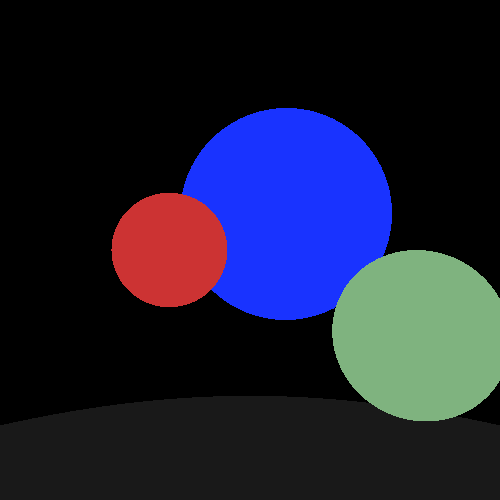
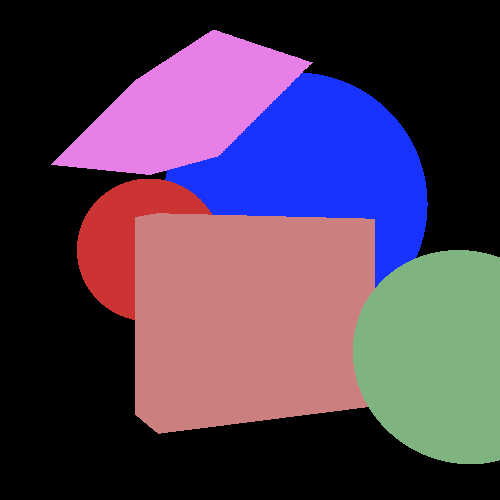
parser done, scene is rendered, NO LIGHTS

diff --git a/Raytracing/Raytracing/src/scene.cpp b/Raytracing/Raytracing/src/scene.cpp
@@ -56,7 +56,7 @@ Scene::Scene(const std::string & filepath, int width, int height, std::string ou
 			std::getline(file, line2);
 			std::string lines[2] = { line,line2 };
 			spheres.push_back(parse_sphere(lines));
-			
+			objects.push_back(new Sphere{ spheres.back() });
 		}
 
 		if (line.find("BOX") != std::string::npos)
@@ -67,8 +67,19 @@ Scene::Scene(const std::string & filepath, int width, int height, std::string ou
 			std::getline(file, line3);
 			std::string lines[3] = { line,line2,line3 };
 			boxes.push_back(parse_box(lines));
-
+			objects.push_back(new Box{ boxes.back() });
 			
+		}
+
+		if (line.find("LIGHT") != std::string::npos)
+		{
+			lights.push_back(parse_light(&line));
+		}
+
+		if (line.find("AMBIENT") != std::string::npos)
+		{
+			std::string text_ambient = line.substr(line.find('(') + 1, line.find(')') - line.find('(') - 1);
+			global_ambient = extract_vec3(text_ambient);
 		}
 
 		if (line.find("CAMERA") != std::string::npos)
@@ -116,9 +127,9 @@ void Scene::Intersect(const Ray & ray)
 
 	float d_max = FLT_MAX - 1.f;
 	int index = -1;
-	for (int i = 0; i < spheres.size(); i++)
+	for (int i = 0; i < objects.size(); i++)
 	{
-		float d = intersection_ray_sphere(ray, spheres[i]);
+		float d = objects[i]->intersection(ray);
 
 		if (d >= 0.f && d <= d_max)
 		{
@@ -128,10 +139,17 @@ void Scene::Intersect(const Ray & ray)
 
 	}
 
+
 	if (index == -1)
 		intersection_data.push_back(vec3{ 0,0,0 });
 	else
-		intersection_data.push_back(spheres[index].mat.diffuse_color);
+	{
+		Material material = objects[index]->mat;
+
+
+
+		//intersection_data.push_back();
+	}
 
 	
 }
@@ -200,14 +218,42 @@ Box parse_box(const std::string * lines)
 	std::string text_center = lines[0].substr(lines[0].find('(') + 1, lines[0].find(')') - lines[0].find('(') - 1);
 	
 	std::string text_vectors = lines[1];
-	std::string text_length = text_vectors.substr(text_vectors.find_first_of('('), text_vectors.find_first_of(')') - text_vectors.find_first_of('('));
-	text_vectors = text_vectors.substr(text_vectors.find_first_of(')') + 1);
-	std::string text_width = text_vectors.substr(text_vectors.find_first_of('('), text_vectors.find_first_of(')') - text_vectors.find_first_of('('));
-	text_vectors = text_vectors.substr(text_vectors.find_first_of(')') + 1);
-	std::string text_height = text_vectors.substr(text_vectors.find_first_of('('), text_vectors.find_first_of(')') - text_vectors.find_first_of('('));
+	std::string text_length = text_vectors.substr(text_vectors.find_first_of('(') + 1, text_vectors.find_first_of(')') - 1);
+	text_vectors = text_vectors.substr(text_vectors.find_first_of(' ') + 1);
+	std::string text_width = text_vectors.substr(text_vectors.find_first_of('(') + 1, text_vectors.find_first_of(')') - 1);
+	text_vectors = text_vectors.substr(text_vectors.find_first_of(' ') + 1);
+	std::string text_height = text_vectors.substr(text_vectors.find_first_of('(') + 1, text_vectors.find_first_of(')') - 1);
 
 	std::string text_material = lines[2];
+	std::string text_diffuse = text_material.substr(text_material.find_first_of('(') + 1, text_material.find_first_of(')') - 1);
+	text_material = text_material.substr(text_material.find_first_of(')') + 2);
+	std::string text_refle = text_material.substr(0, text_material.find_first_of(' ') );
+	text_material = text_material.substr(text_material.find_first_of(' '));
+	std::string text_exp = text_material;
 
+	vec3 center = extract_vec3(text_center);
+	vec3 length = extract_vec3(text_length);
+	vec3 width = extract_vec3(text_width);
+	vec3 height = extract_vec3(text_height);
+	vec3 diffuse = extract_vec3(text_diffuse);
+	float refle = std::stof(text_refle);
+	float exp = std::stof(text_exp);
 
-	return Box();
+	return Box(center, width,height,length,diffuse,refle,exp);
+}
+
+Light parse_light(const std::string * lines)
+{
+	std::string text_components = lines[0];
+	std::string text_position = text_components.substr(text_components.find_first_of('(') + 1, text_components.find_first_of(')') - text_components.find_first_of('(') - 1);
+	text_components = text_components.substr(text_components.find_first_of(')') + 1);
+	std::string text_color = text_components.substr(text_components.find_first_of('(') + 1, text_components.find_first_of(')') - text_components.find_first_of('(') - 1);
+	text_components = text_components.substr(text_components.find_first_of(')') + 1);
+	std::string text_radius = text_components;
+
+	vec3 position = extract_vec3(text_position);
+	vec3 color = extract_vec3(text_color);
+	float radius = std::stof(text_radius);
+
+	return Light(position,color,radius);
 }

diff --git a/Raytracing/Raytracing/src/shapes.h b/Raytracing/Raytracing/src/shapes.h
@@ -18,7 +18,7 @@ struct Material
 	float specular_exponent;
 
 	Material() = default;
-	Material(const vec3& diffuse,const float & spec_ref, const float & spec_exp);
+	Material(const vec3& diffuse, const float & spec_ref, const float & spec_exp);
 
 };
 
@@ -30,19 +30,30 @@ struct Ray
 	Ray() = default;
 	Ray(const vec3& start, const vec3& dir);
 
+
 };
 
-struct Sphere {
+struct Base
+{
+	Material mat;
+	virtual float intersection(const Ray & ray) { return -1.0f; };
+};
+
+
+struct Sphere : public Base
+{
 	vec3	center;
 	float	radius;
-	Material mat;
+	//Material mat;
 
 	Sphere() = default;
 	Sphere(const vec3& center, const float & radius, const vec3& diffuse, 
 		const float & spec_ref, const float & spec_exp);
+	float intersection(const Ray & ray);
 };
 
-struct Plane {
+struct Plane 
+{
 	vec3 point;
 	vec3 normal;
 
@@ -50,17 +61,28 @@ struct Plane {
 	Plane(const vec3& point, const vec3& normal);
 };
 
-struct Box {
+struct Box : public Base
+{
 	vec3 position;
 	vec3 width;
 	vec3 height;
 	vec3 length;
 	//Front,Back,Left,Right,Bottom,Top
 	Plane planes[6];
-	Material mat;
+	//Material mat;
 
 	Box() = default;
-	Box(const vec3 & position, const vec3 & weigth, const vec3 & heigth,
+	Box(const vec3 & position, const vec3 & width, const vec3 & heigth,
 		const vec3 & length, const vec3& diffuse, const float & spec_ref,
 		const float & spec_exp);
+	float intersection(const Ray & ray);
+};
+
+struct Light
+{
+	vec3 position;
+	vec3 color;
+	float radius;
+	Light() = default;
+	Light(const vec3 & position, const vec3 & color, const float & radius);
 };

diff --git a/Raytracing/Raytracing/src/shapes.cpp b/Raytracing/Raytracing/src/shapes.cpp
@@ -8,6 +8,7 @@ Creation date: 1/8/2020
 ----------------------------------------------------------------------------------------------------------*/
 
 #include "shapes.h"
+#include "collision.h"
 
 Ray::Ray(const vec3 & start, const vec3 & dir)
 {
@@ -21,6 +22,11 @@ Sphere::Sphere(const vec3 & center, const float & radius, const vec3& diffuse,
 	this->center = center;
 	this->radius = radius;
 	this->mat = Material{diffuse,spec_ref,spec_exp};
+}
+
+float Sphere::intersection(const Ray & ray)
+{
+	return intersection_ray_sphere(ray,*this);
 }
 
 Box::Box(const vec3 & position, const vec3 & length, const vec3 & width,
@@ -59,6 +65,11 @@ Box::Box(const vec3 & position, const vec3 & length, const vec3 & width,
 	planes[5] = Plane{ c6,n6 };
 }
 
+float Box::intersection(const Ray & ray)
+{
+	return intersection_ray_box(ray, *this);
+}
+
 Plane::Plane(const vec3 & point, const vec3 & normal)
 {
 	this->point = point;
@@ -70,4 +81,11 @@ Material::Material(const vec3 & diffuse, const float & spec_ref, const float & s
 	diffuse_color = diffuse;
 	specular_reflection = spec_ref;
 	specular_exponent = spec_exp;
+}
+
+Light::Light(const vec3 & position, const vec3 & color, const float & radius)
+{
+	this->position = position;
+	this->color = color;
+	this->radius = radius;
 }

diff --git a/Raytracing/Raytracing/src/collision.cpp b/Raytracing/Raytracing/src/collision.cpp
@@ -36,5 +36,40 @@ float intersection_ray_sphere(const Ray & ray, const Sphere & sphere)
 
 float intersection_ray_box(const Ray & ray, const Box & box)
 {
-	return 0.0f;
+	vec2 intersection = { 0.0f, FLT_MAX };
+
+	for (int i = 0; i < 6; i++)
+	{
+		vec2 temp_intersection;
+		float d2 = glm::dot(ray.dir, box.planes[i].normal);
+		float d1 = glm::dot(ray.start - box.planes[i].point, box.planes[i].normal);
+		
+		if (d2 < 0.0)
+		{
+			float t = -d1 / d2;
+			temp_intersection = {glm::max(0.0f,t),FLT_MAX};
+		}
+		else if (d2 > 0.0)
+		{
+			float t = -d1 / d2;
+			temp_intersection = {0, glm::max(0.0f,t)};
+		}
+		else if (d1 > 0.0)
+		{
+			return -1;
+		}
+		else
+		{
+			temp_intersection = { 0.0f, FLT_MAX };
+		}
+
+		intersection = { glm::max(temp_intersection.x,intersection.x),
+		glm::min(temp_intersection.y,intersection.y) };
+
+	}
+
+	if (intersection.x > intersection.y || intersection.x < 0 || intersection.y < 0)
+		return -1;
+
+	return intersection.x;
 }

diff --git a/Raytracing/Raytracing/src/main.cpp b/Raytracing/Raytracing/src/main.cpp
@@ -19,13 +19,13 @@ int main(int argc, char *argv[])
 		std::cout << "No argument, using default size (500 x 500)." << std::endl;
 		std::cout << "No argument, using default input file (SampleScene01.txt)." << std::endl;
 		std::cout << "No argument, using default output file name (Out.png)." << std::endl;
-		Scene scene{ "SampleScene01.txt",500,500 };
+		Scene scene{ "SampleScene02.txt",500,500 };
 	}
 	if (argc == 3)
 	{
 		std::cout << "No argument, using default input file (SampleScene01.txt)." << std::endl;
 		std::cout << "No argument, using default output file name (Out.png)." << std::endl;
-		Scene scene{ "SampleScene01.txt", std::stoi(argv[1]) ,std::stoi(argv[2]) };
+		Scene scene{ "SampleScene02.txt", std::stoi(argv[1]) ,std::stoi(argv[2]) };
 	}
 	if (argc == 4)
 	{

diff --git a/Raytracing/Raytracing/src/scene.h b/Raytracing/Raytracing/src/scene.h
@@ -13,6 +13,7 @@ Creation date: 1/8/2020
 
 Sphere parse_sphere(const std::string * lines);
 Box parse_box(const std::string * lines);
+Light parse_light(const std::string * lines);
 
 class Scene
 {
@@ -21,11 +22,17 @@ public:
 	void Intersect(const Ray & ray);
 	void GenerateImage();
 private:
+
+	std::vector<Base*> objects;
 	std::vector<Sphere> spheres;
 	std::vector<Box> boxes;
+	std::vector<Light> lights;
+	vec3 global_ambient;
 	std::vector<Ray> rays;
+
 	int width;
 	int height;
+
 	std::string name;
 	std::vector<vec3> intersection_data;
 };
